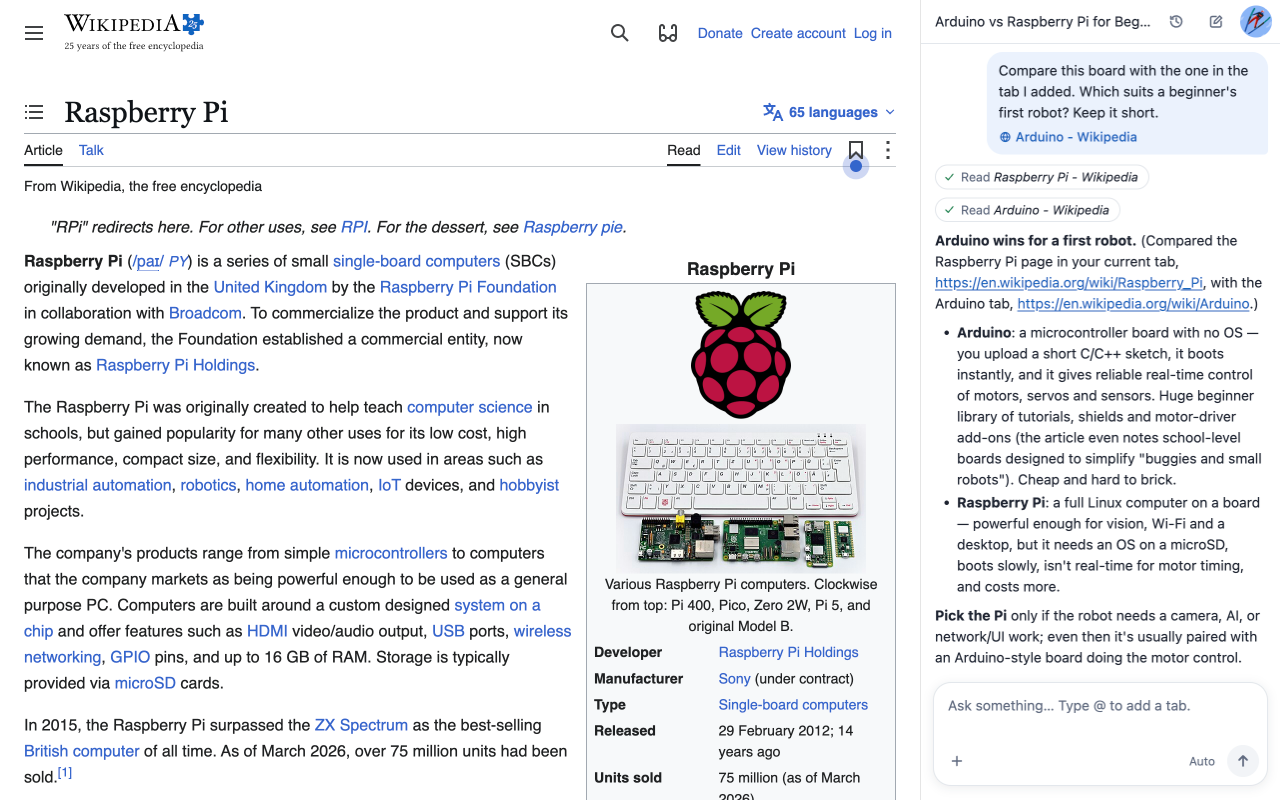
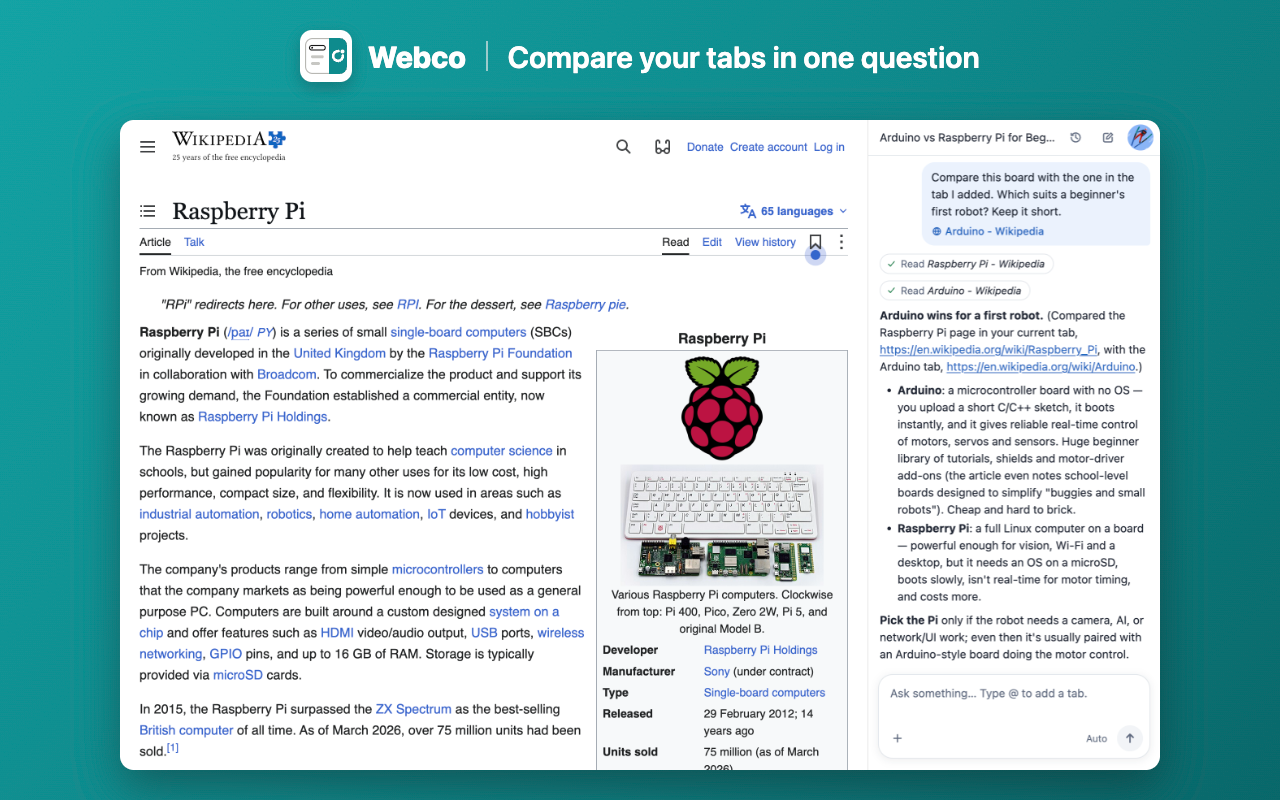
chore: frame Webco's store screenshots and bring its side panel forward
Each screenshot now sits on Webco's teal gradient under its icon, its name, and a line on what
it shows, so the item is easy to tell apart in the store. The marquee tile shows the side panel
in front at full size, with the page smaller and faded behind it.

diff --git a/extensions/webco/store/listing.md b/extensions/webco/store/listing.md
@@ -62,4 +62,4 @@ Source code and privacy policy: https://github.com/cofun-labs/cofun
 | Small promo tile | [small-promo-tile.png](images/small-promo-tile.png) | 440×280 |
 | Marquee promo tile | [marquee-promo-tile.png](images/marquee-promo-tile.png) | 1400×560 |
 
-The screenshots show the real side panel, answering with Cofun's model (Auto), next to public English Wikipedia articles (Honey bee, Raspberry Pi, with Arduino in a tab added to the question), on a test profile where en.wikipedia.org is allowed. They are made with `pnpm e2e --extension webco` and the DevTools protocol: `panel` opens the side panel on the tool's tab, which is then sent to the article; the tab at 920×800 and the side panel at 360×800 are captured separately at twice the pixel density, scaled down, and set side by side, so they carry no browser frame. Ask for short replies, so the question and the whole reply fit in the panel. Chrome's right-click menu can't be captured that way, so screenshot-4 shows what "Ask Webco" does: the paragraph is selected in the page and handed to the panel as the menu's click does (`handOver` in `@cofun/tools/selection` writes it to the window's `chrome.storage.session`). Cofun's avatar in the side panel's header stays; nothing else of the account may show. The promo tiles are laid out in HTML and captured the same way: the small tile is the icon on a white card, the name, "AI copilot for any web page", and one line on what it does, on a teal gradient from `#14a3a5` to `#09686a`; the marquee tile is the same with screenshot-1 scaled into its card (760×475 at 620,62, corners rounded at 14px). Canary captures in a wide-gamut color profile, so every image is converted to sRGB before it is committed (`sips --matchTo '/System/Library/ColorSync/Profiles/sRGB Profile.icc'`); without that, a viewer that ignores the profile shows the colors washed out. The screenshots and promo tiles are PNG without transparency, as the store requires for them.
+The screenshots show the real side panel, answering with Cofun's model (Auto), next to public English Wikipedia articles (Honey bee, Raspberry Pi, with Arduino in a tab added to the question), on a test profile where en.wikipedia.org is allowed. They are made with `pnpm e2e --extension webco` and the DevTools protocol: `panel` opens the side panel on the tool's tab, which is then sent to the article; the tab at 920×800 and the side panel at 360×800 are captured separately at twice the pixel density, scaled down, and set side by side, so they carry no browser frame. Each pair is then framed, so the item is easy to tell apart in the store: on the teal gradient the promo tiles use, Webco's icon, its name, and a line on what the screenshot shows ("Summarize any page", "Compare your tabs in one question", "Check any page against the web", "Explain any text you select") above the pair, scaled to 1040×650 at 120,120 with its corners rounded at 14px. Ask for short replies, so the question and the whole reply fit in the panel. Chrome's right-click menu can't be captured that way, so screenshot-4 shows what "Ask Webco" does: the paragraph is selected in the page and handed to the panel as the menu's click does (`handOver` in `@cofun/tools/selection` writes it to the window's `chrome.storage.session`). Cofun's avatar in the side panel's header stays; nothing else of the account may show. The promo tiles are laid out in HTML and captured the same way: the small tile is the icon on a white card, the name, "AI copilot for any web page", and one line on what it does, on a teal gradient from `#14a3a5` to `#09686a`; the marquee tile is the same, with screenshot-1's side panel in front at full size (its top 488px, at 990,36) and its page behind it, smaller and faded (560×420 at 600,70), so the side panel is what stands out. Canary captures in a wide-gamut color profile, so every image is converted to sRGB before it is committed (`sips --matchTo '/System/Library/ColorSync/Profiles/sRGB Profile.icc'`); without that, a viewer that ignores the profile shows the colors washed out. The screenshots and promo tiles are PNG without transparency, as the store requires for them.
